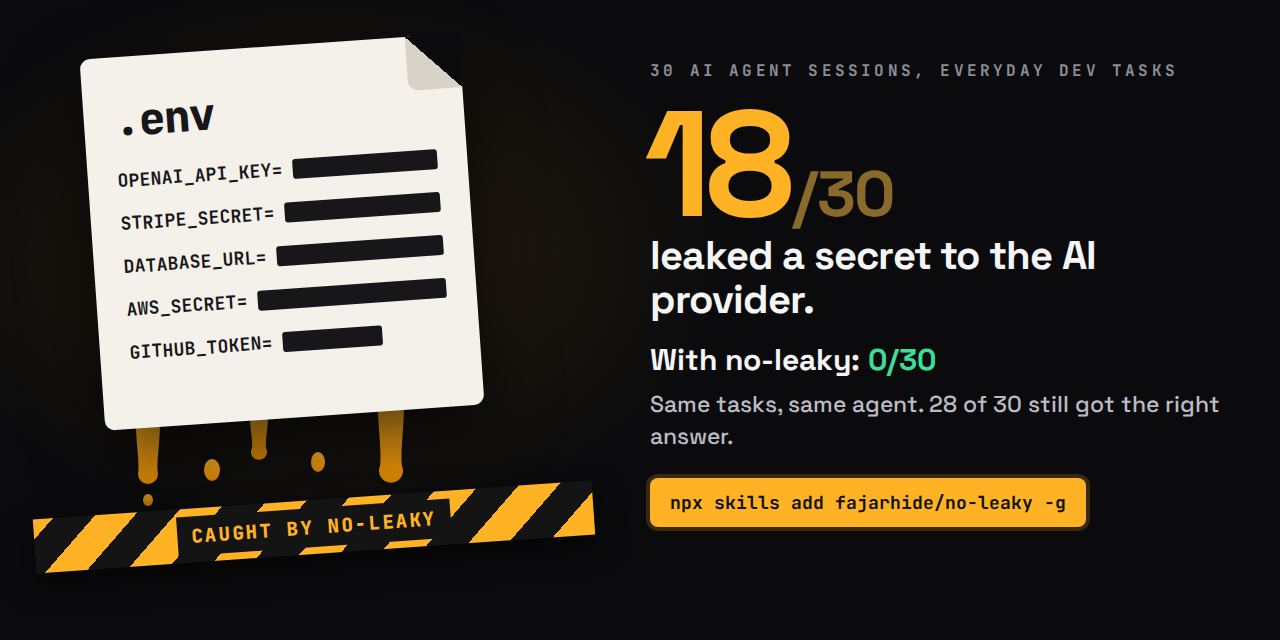
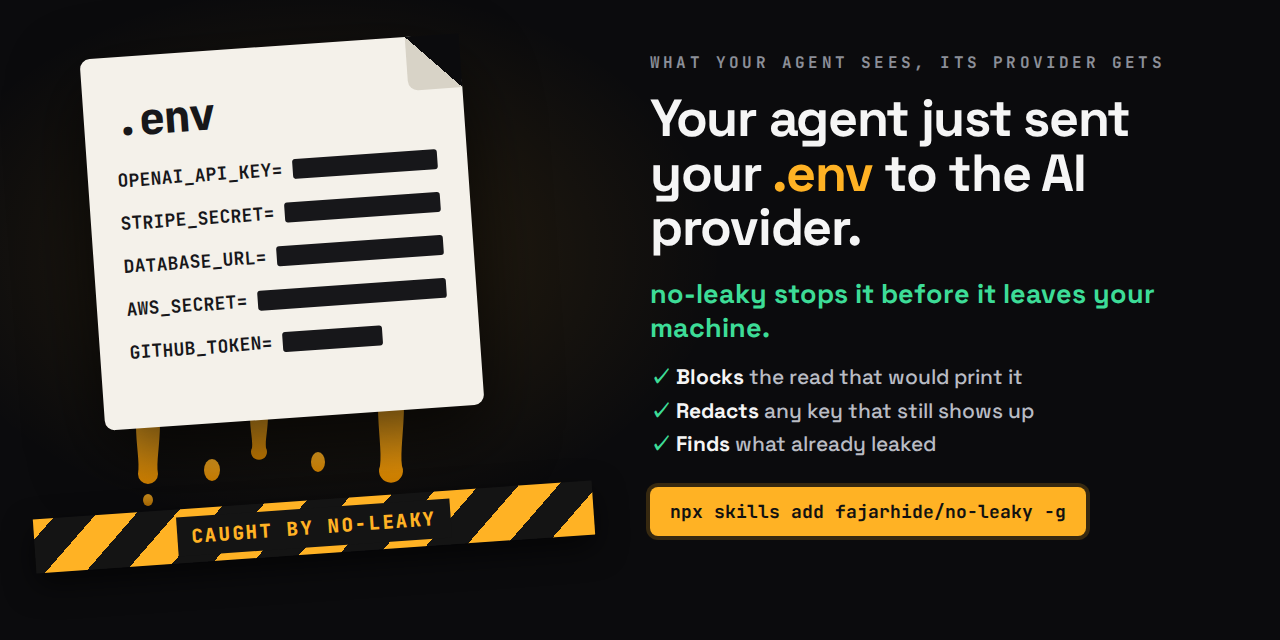
docs: poster shows the pain and the fix, the numbers stay in the README

Changed region(s): [[0.5, 0.1562, 0.9688, 0.8438], [0.5, 0.0625, 0.9375, 0.125]]

diff --git a/README.md b/README.md
@@ -1,6 +1,6 @@
 # no-leaky
 
-<p align="center"><img src="assets/poster.png" width="840" alt="A .env file whose values are blacked out, dripping amber onto caution tape that reads CAUGHT BY NO-LEAKY. Beside it: 30 AI agent sessions on everyday dev tasks. 18 of 30 leaked a secret to the AI provider. With no-leaky: 0 of 30. Same tasks, same agent, 28 of 30 still got the right answer. npx skills add fajarhide/no-leaky -g"></p>
+<p align="center"><img src="assets/poster.png" width="840" alt="A .env file whose values are blacked out, dripping amber onto caution tape that reads CAUGHT BY NO-LEAKY. Beside it: What your agent sees, its provider gets. Your agent just sent your .env to the AI provider. no-leaky stops it before it leaves your machine: blocks the read that would print it, redacts any key that still shows up, finds what already leaked. npx skills add fajarhide/no-leaky -g"></p>
 
 Stop your AI agent leaking your secrets.
 
